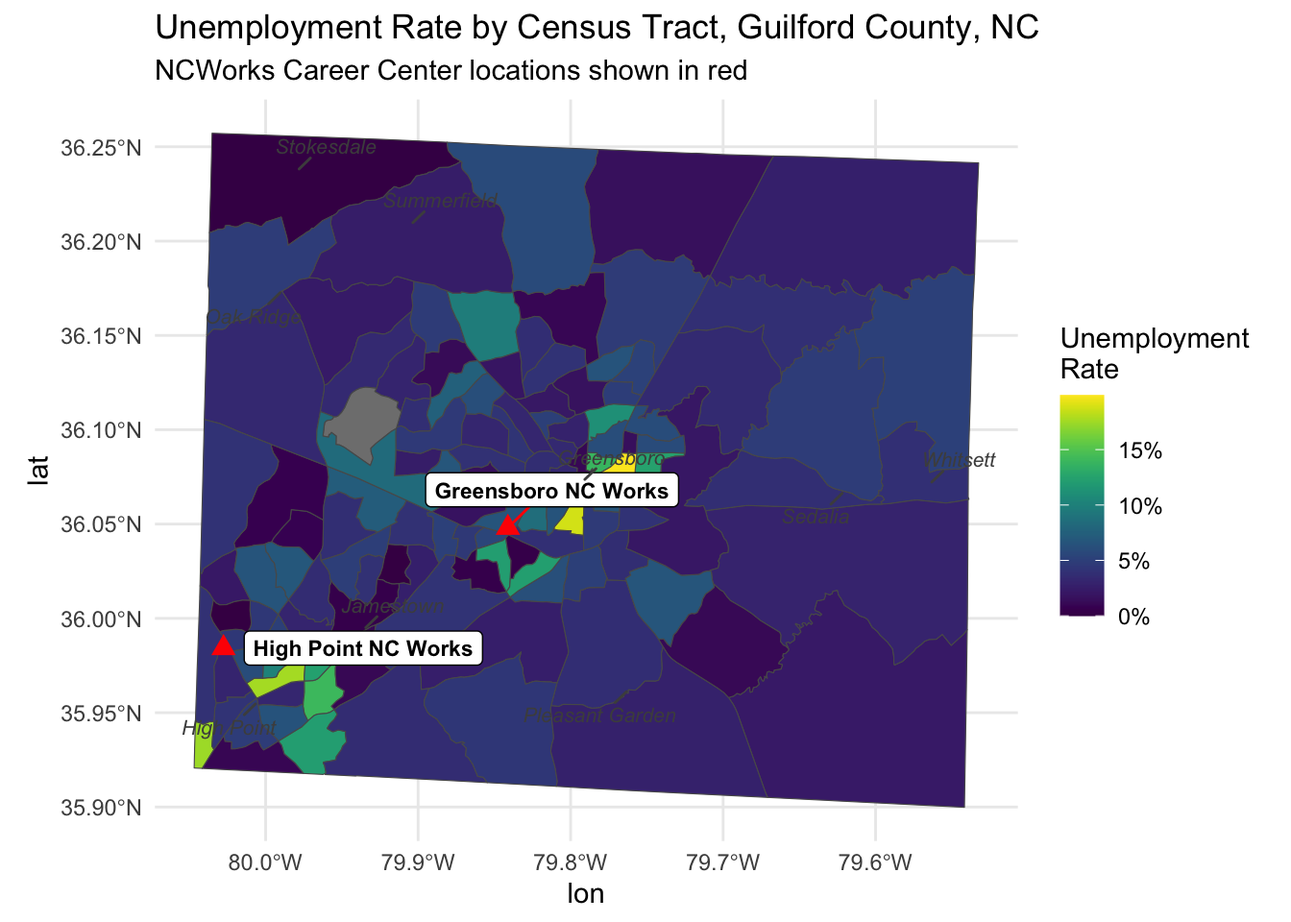
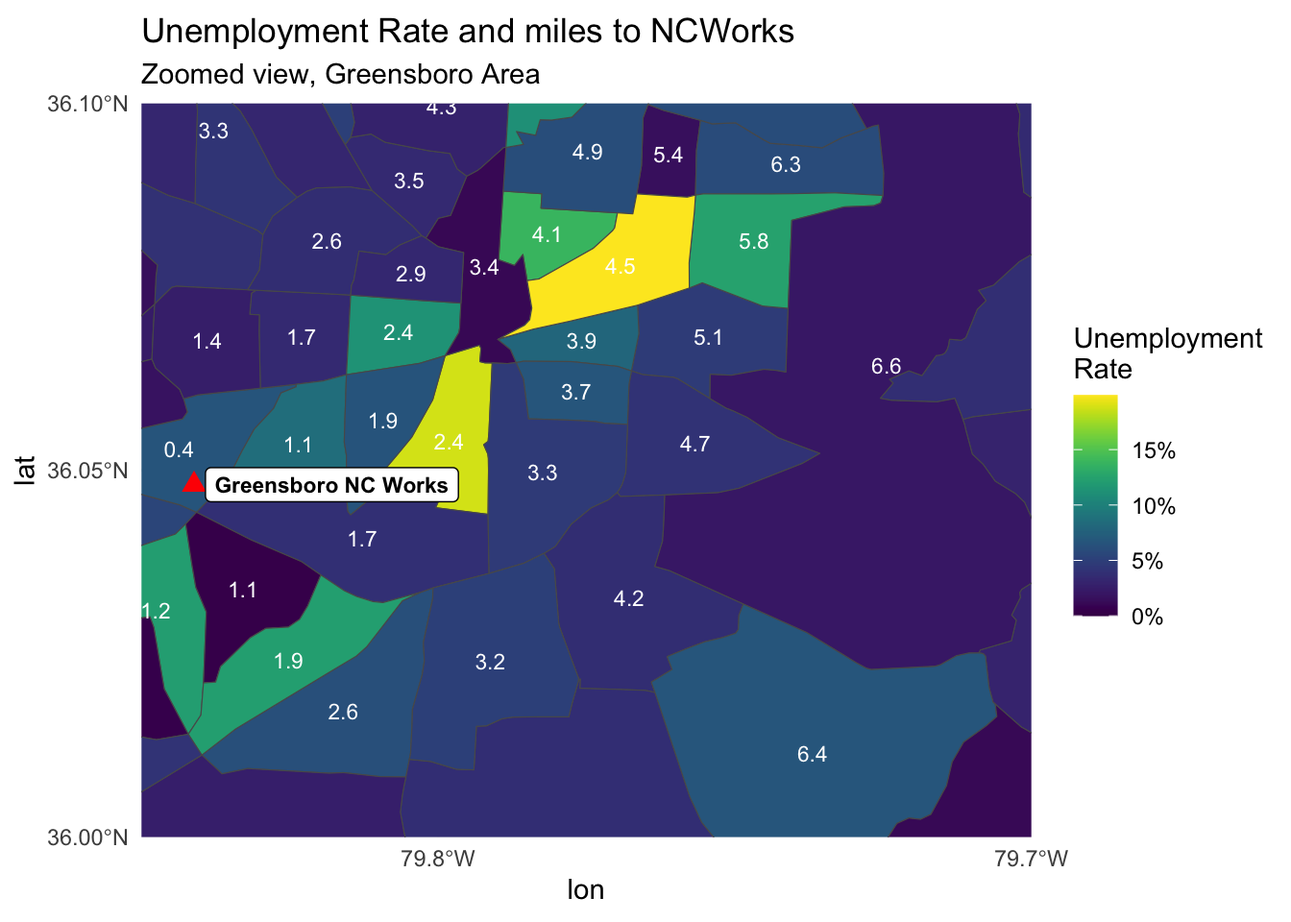
Built site for gh-pages

diff --git a/index.html b/index.html
@@ -150,8 +150,12 @@ pre > code.sourceCode > span > a:first-child::before { text-decoration: underlin
 </header>
 
 
-<section id="quarto" class="level2">
-<h2 class="anchored" data-anchor-id="quarto">Quarto</h2>
+<section id="introduction" class="level2">
+<h2 class="anchored" data-anchor-id="introduction">Introduction</h2>
+<p>Guilford county’s NCWorks Career Centers provide job search assistance, career counseling, and skills training to residents across the county. Both centers are located in the county’s two largest cities, Greensboro and High Point. This raises a natural question:</p>
+<p>Are the workforce centers in a convenient location to communities with the highest job support needs?</p>
+<p>This project takes a first look at these questions. It maps labor market indicators including unemployment, poverty, and vehicle access across Guilford County’s census tracts, alongside the locations of the two career centers. We aim to visually surface where need may be concentrated relative to where services are physically located/</p>
+<p><strong>Note</strong>: Click on the <code>Code</code> to view the underlying R code used in producing this report.</p>
 <div class="cell">
 <details class="code-fold">
 <summary>Code</summary>
@@ -164,68 +168,117 @@ pre > code.sourceCode > span > a:first-child::before { text-decoration: underlin
 <span id="cb1-7"><a href="#cb1-7" aria-hidden="true" tabindex="-1"></a><span class="fu">library</span>(dplyr)</span></code></pre></div><button title="Copy to Clipboard" class="code-copy-button"><i class="bi"></i></button></div>
 </details>
 </div>
+</section>
+<section id="data-and-methodology" class="level2">
+<h2 class="anchored" data-anchor-id="data-and-methodology">Data and Methodology</h2>
+<p><strong>Data sources</strong></p>
+<ul>
+<li>American Community Survey (ACS) 2019 to 2023 5 year estimates, at the census tract level, covering labor force status and unemployment (Table B23025), median household income (Table B19013), poverty status (Table B17001), and vehicle availability by household (Table B08201)</li>
+<li>NCWorks Career Center locations, geocoded from publicly listed addresses in Greensboro and High Point</li>
+</ul>
+<p><strong>Why census tracts</strong></p>
+<p>Census tracts are the standard small area geography for this kind of analysis. They are small enough to reveal neighborhood level variation, but large enough (typically 1,200 to 8,000 residents) to produce reliable estimates, unlike smaller geographies such as block groups. Tract level data of this kind is also standard input for the sort of underserved area analysis that informs public workforce funding decisions.</p>
+<p><strong>Distance calculation</strong></p>
+<p>For each tract, I calculated the straight line distance from the tract’s population centroid to the nearest of the two career centers. Distance calculations were performed in a projected coordinate system (NC State Plane, EPSG:2264) to ensure accurate measurement in feet before converting to miles. Mapping was done in unprojected geographic coordinates (WGS84) for standard latitude and longitude display.</p>
 <div class="cell">
 <details class="code-fold">
 <summary>Code</summary>
 <div class="code-copy-outer-scaffold"><div class="sourceCode cell-code" id="cb2"><pre class="sourceCode r code-with-copy"><code class="sourceCode r"><span id="cb2-1"><a href="#cb2-1" aria-hidden="true" tabindex="-1"></a>guilford_acs <span class="ot">&lt;-</span> <span class="fu">st_read_parquet</span>(<span class="st">"data/guilford_tracts-2026-07-20.parquet"</span>)</span>
 <span id="cb2-2"><a href="#cb2-2" aria-hidden="true" tabindex="-1"></a>centers <span class="ot">&lt;-</span> <span class="fu">st_read_parquet</span>(<span class="st">"data/career-centers-geo-2026-07-20.parquet"</span>)</span>
-<span id="cb2-3"><a href="#cb2-3" aria-hidden="true" tabindex="-1"></a>ref_cities <span class="ot">&lt;-</span> <span class="fu">read_parquet</span>(<span class="st">"data/ref-cities-2026-07-20.parquet"</span>)</span></code></pre></div><button title="Copy to Clipboard" class="code-copy-button"><i class="bi"></i></button></div>
+<span id="cb2-3"><a href="#cb2-3" aria-hidden="true" tabindex="-1"></a>ref_cities <span class="ot">&lt;-</span> <span class="fu">read_parquet</span>(<span class="st">"data/ref-cities-2026-07-20.parquet"</span>)</span>
+<span id="cb2-4"><a href="#cb2-4" aria-hidden="true" tabindex="-1"></a></span>
+<span id="cb2-5"><a href="#cb2-5" aria-hidden="true" tabindex="-1"></a>guilford_acs_proj <span class="ot">&lt;-</span> <span class="fu">st_transform</span>(guilford_acs, <span class="at">crs =</span> <span class="dv">2264</span>)</span>
+<span id="cb2-6"><a href="#cb2-6" aria-hidden="true" tabindex="-1"></a>career_centers_proj <span class="ot">&lt;-</span> <span class="fu">st_transform</span>(centers, <span class="at">crs =</span> <span class="dv">2264</span>)</span>
+<span id="cb2-7"><a href="#cb2-7" aria-hidden="true" tabindex="-1"></a>guilford_centroids_proj <span class="ot">&lt;-</span> <span class="fu">st_centroid</span>(guilford_acs_proj)</span>
+<span id="cb2-8"><a href="#cb2-8" aria-hidden="true" tabindex="-1"></a></span>
+<span id="cb2-9"><a href="#cb2-9" aria-hidden="true" tabindex="-1"></a>dist_matrix <span class="ot">&lt;-</span> <span class="fu">st_distance</span>(guilford_centroids_proj, career_centers_proj)</span>
+<span id="cb2-10"><a href="#cb2-10" aria-hidden="true" tabindex="-1"></a></span>
+<span id="cb2-11"><a href="#cb2-11" aria-hidden="true" tabindex="-1"></a>guilford_acs_proj <span class="ot">&lt;-</span> guilford_acs_proj <span class="sc">|&gt;</span></span>
+<span id="cb2-12"><a href="#cb2-12" aria-hidden="true" tabindex="-1"></a>  <span class="fu">mutate</span>(<span class="at">dist_to_nearest_center_miles =</span> <span class="fu">apply</span>(dist_matrix, <span class="dv">1</span>, min) <span class="sc">/</span> <span class="dv">5280</span>)</span>
+<span id="cb2-13"><a href="#cb2-13" aria-hidden="true" tabindex="-1"></a></span>
+<span id="cb2-14"><a href="#cb2-14" aria-hidden="true" tabindex="-1"></a>guilford_acs <span class="ot">&lt;-</span> guilford_acs <span class="sc">|&gt;</span></span>
+<span id="cb2-15"><a href="#cb2-15" aria-hidden="true" tabindex="-1"></a>  <span class="fu">left_join</span>(</span>
+<span id="cb2-16"><a href="#cb2-16" aria-hidden="true" tabindex="-1"></a>    <span class="fu">st_drop_geometry</span>(guilford_acs_proj) <span class="sc">|&gt;</span> <span class="fu">select</span>(GEOID, dist_to_nearest_center_miles),</span>
+<span id="cb2-17"><a href="#cb2-17" aria-hidden="true" tabindex="-1"></a>    <span class="at">by =</span> <span class="st">"GEOID"</span></span>
+<span id="cb2-18"><a href="#cb2-18" aria-hidden="true" tabindex="-1"></a>  )</span>
+<span id="cb2-19"><a href="#cb2-19" aria-hidden="true" tabindex="-1"></a></span>
+<span id="cb2-20"><a href="#cb2-20" aria-hidden="true" tabindex="-1"></a>career_centers_coords <span class="ot">&lt;-</span> centers <span class="sc">|&gt;</span></span>
+<span id="cb2-21"><a href="#cb2-21" aria-hidden="true" tabindex="-1"></a>  <span class="fu">mutate</span>(<span class="at">lon =</span> <span class="fu">st_coordinates</span>(geometry)[, <span class="dv">1</span>],</span>
+<span id="cb2-22"><a href="#cb2-22" aria-hidden="true" tabindex="-1"></a>         <span class="at">lat =</span> <span class="fu">st_coordinates</span>(geometry)[, <span class="dv">2</span>]) <span class="sc">|&gt;</span></span>
+<span id="cb2-23"><a href="#cb2-23" aria-hidden="true" tabindex="-1"></a>  <span class="fu">st_drop_geometry</span>()</span></code></pre></div><button title="Copy to Clipboard" class="code-copy-button"><i class="bi"></i></button></div>
 </details>
 </div>
 </section>
-<section id="make-computations" class="level2">
-<h2 class="anchored" data-anchor-id="make-computations">Make Computations</h2>
+<section id="nc-works-locations-and-unemployment-levels" class="level1">
+<h1>NC Works Locations and Unemployment Levels</h1>
+<p>The map below shows each census tract in Guilford County, shaded according to the unemployment rate. Note that the NC Service locations are not in the census tracts with the highest unemployment rates.</p>
 <div class="cell">
 <details class="code-fold">
 <summary>Code</summary>
-<div class="code-copy-outer-scaffold"><div class="sourceCode cell-code" id="cb3"><pre class="sourceCode r code-with-copy"><code class="sourceCode r"><span id="cb3-1"><a href="#cb3-1" aria-hidden="true" tabindex="-1"></a>guilford_acs_proj <span class="ot">&lt;-</span> <span class="fu">st_transform</span>(guilford_acs, <span class="at">crs =</span> <span class="dv">2264</span>)</span>
-<span id="cb3-2"><a href="#cb3-2" aria-hidden="true" tabindex="-1"></a>career_centers_proj <span class="ot">&lt;-</span> <span class="fu">st_transform</span>(centers, <span class="at">crs =</span> <span class="dv">2264</span>)</span>
-<span id="cb3-3"><a href="#cb3-3" aria-hidden="true" tabindex="-1"></a>guilford_centroids_proj <span class="ot">&lt;-</span> <span class="fu">st_centroid</span>(guilford_acs_proj)</span>
-<span id="cb3-4"><a href="#cb3-4" aria-hidden="true" tabindex="-1"></a></span>
-<span id="cb3-5"><a href="#cb3-5" aria-hidden="true" tabindex="-1"></a>dist_matrix <span class="ot">&lt;-</span> <span class="fu">st_distance</span>(guilford_centroids_proj, career_centers_proj)</span>
-<span id="cb3-6"><a href="#cb3-6" aria-hidden="true" tabindex="-1"></a></span>
-<span id="cb3-7"><a href="#cb3-7" aria-hidden="true" tabindex="-1"></a>guilford_acs_proj <span class="ot">&lt;-</span> guilford_acs_proj <span class="sc">|&gt;</span></span>
-<span id="cb3-8"><a href="#cb3-8" aria-hidden="true" tabindex="-1"></a>  <span class="fu">mutate</span>(<span class="at">dist_to_nearest_center_miles =</span> <span class="fu">apply</span>(dist_matrix, <span class="dv">1</span>, min) <span class="sc">/</span> <span class="dv">5280</span>)</span>
-<span id="cb3-9"><a href="#cb3-9" aria-hidden="true" tabindex="-1"></a></span>
-<span id="cb3-10"><a href="#cb3-10" aria-hidden="true" tabindex="-1"></a>guilford_acs <span class="ot">&lt;-</span> guilford_acs <span class="sc">|&gt;</span></span>
-<span id="cb3-11"><a href="#cb3-11" aria-hidden="true" tabindex="-1"></a>  <span class="fu">left_join</span>(</span>
-<span id="cb3-12"><a href="#cb3-12" aria-hidden="true" tabindex="-1"></a>    <span class="fu">st_drop_geometry</span>(guilford_acs_proj) <span class="sc">|&gt;</span> <span class="fu">select</span>(GEOID, dist_to_nearest_center_miles),</span>
-<span id="cb3-13"><a href="#cb3-13" aria-hidden="true" tabindex="-1"></a>    <span class="at">by =</span> <span class="st">"GEOID"</span></span>
-<span id="cb3-14"><a href="#cb3-14" aria-hidden="true" tabindex="-1"></a>  )</span></code></pre></div><button title="Copy to Clipboard" class="code-copy-button"><i class="bi"></i></button></div>
+<div class="code-copy-outer-scaffold"><div class="sourceCode cell-code" id="cb3"><pre class="sourceCode r code-with-copy"><code class="sourceCode r"><span id="cb3-1"><a href="#cb3-1" aria-hidden="true" tabindex="-1"></a><span class="fu">ggplot</span>(guilford_acs) <span class="sc">+</span></span>
+<span id="cb3-2"><a href="#cb3-2" aria-hidden="true" tabindex="-1"></a>  <span class="fu">geom_sf</span>(<span class="fu">aes</span>(<span class="at">fill =</span> unemployment_rate)) <span class="sc">+</span></span>
+<span id="cb3-3"><a href="#cb3-3" aria-hidden="true" tabindex="-1"></a>  <span class="fu">scale_fill_viridis</span>(<span class="at">name =</span> <span class="st">"Unemployment</span><span class="sc">\n</span><span class="st">Rate"</span>, <span class="at">labels =</span> scales<span class="sc">::</span>percent) <span class="sc">+</span></span>
+<span id="cb3-4"><a href="#cb3-4" aria-hidden="true" tabindex="-1"></a>  <span class="fu">geom_point</span>(<span class="at">data =</span> career_centers_coords, <span class="fu">aes</span>(<span class="at">x =</span> lon, <span class="at">y =</span> lat),</span>
+<span id="cb3-5"><a href="#cb3-5" aria-hidden="true" tabindex="-1"></a>             <span class="at">color =</span> <span class="st">"red"</span>, <span class="at">size =</span> <span class="dv">3</span>, <span class="at">shape =</span> <span class="dv">17</span>) <span class="sc">+</span></span>
+<span id="cb3-6"><a href="#cb3-6" aria-hidden="true" tabindex="-1"></a>  <span class="fu">geom_label_repel</span>(<span class="at">data =</span> career_centers_coords,</span>
+<span id="cb3-7"><a href="#cb3-7" aria-hidden="true" tabindex="-1"></a>                    <span class="fu">aes</span>(<span class="at">x =</span> lon, <span class="at">y =</span> lat, <span class="at">label =</span> name),</span>
+<span id="cb3-8"><a href="#cb3-8" aria-hidden="true" tabindex="-1"></a>                    <span class="at">size =</span> <span class="dv">3</span>, <span class="at">fontface =</span> <span class="st">"bold"</span>,</span>
+<span id="cb3-9"><a href="#cb3-9" aria-hidden="true" tabindex="-1"></a>                    <span class="at">box.padding =</span> <span class="fl">0.5</span>, <span class="at">segment.color =</span> <span class="st">"red"</span>) <span class="sc">+</span></span>
+<span id="cb3-10"><a href="#cb3-10" aria-hidden="true" tabindex="-1"></a>  <span class="fu">geom_text_repel</span>(<span class="at">data =</span> ref_cities,</span>
+<span id="cb3-11"><a href="#cb3-11" aria-hidden="true" tabindex="-1"></a>                   <span class="fu">aes</span>(<span class="at">x =</span> long, <span class="at">y =</span> lat, <span class="at">label =</span> name),</span>
+<span id="cb3-12"><a href="#cb3-12" aria-hidden="true" tabindex="-1"></a>                   <span class="at">size =</span> <span class="fl">2.8</span>, <span class="at">color =</span> <span class="st">"gray90"</span>, <span class="at">fontface =</span> <span class="st">"italic"</span>,</span>
+<span id="cb3-13"><a href="#cb3-13" aria-hidden="true" tabindex="-1"></a>                   <span class="at">box.padding =</span> <span class="fl">0.4</span>, <span class="at">max.overlaps =</span> <span class="dv">15</span>,</span>
+<span id="cb3-14"><a href="#cb3-14" aria-hidden="true" tabindex="-1"></a>                   <span class="at">min.segment.length =</span> <span class="dv">0</span>, <span class="at">seed =</span> <span class="dv">42</span>) <span class="sc">+</span></span>
+<span id="cb3-15"><a href="#cb3-15" aria-hidden="true" tabindex="-1"></a>  <span class="fu">theme_minimal</span>() <span class="sc">+</span></span>
+<span id="cb3-16"><a href="#cb3-16" aria-hidden="true" tabindex="-1"></a>  <span class="fu">labs</span>(<span class="at">title =</span> <span class="st">"Unemployment Rate by Census Tract, Guilford County, NC"</span>,</span>
+<span id="cb3-17"><a href="#cb3-17" aria-hidden="true" tabindex="-1"></a>       <span class="at">subtitle =</span> <span class="st">"NCWorks Career Center locations shown in red"</span>)</span></code></pre></div><button title="Copy to Clipboard" class="code-copy-button"><i class="bi"></i></button></div>
 </details>
+<div class="cell-output-display">
+<div>
+<figure class="figure">
+<p><img src="index_files/figure-html/unnamed-chunk-1-1.png" class="img-fluid figure-img" width="672"></p>
+</figure>
 </div>
+</div>
+</div>
+<p>This second spatial graph shows the average number of miles to the NCWorks location. The two Greensboro-area tracts with the highest unemployment have average distances of 2.4 and 4.5 miles to the NC Works location. This can pose a burden to residents without vehicle access. In the census tract where Greensboro NC Works resides, the average distance is less than half of a mile, but there is a lower need for employment services in this tract.</p>
 <div class="cell">
 <details class="code-fold">
 <summary>Code</summary>
-<div class="code-copy-outer-scaffold"><div class="sourceCode cell-code" id="cb4"><pre class="sourceCode r code-with-copy"><code class="sourceCode r"><span id="cb4-1"><a href="#cb4-1" aria-hidden="true" tabindex="-1"></a>career_centers_coords <span class="ot">&lt;-</span> centers <span class="sc">|&gt;</span></span>
-<span id="cb4-2"><a href="#cb4-2" aria-hidden="true" tabindex="-1"></a>  <span class="fu">mutate</span>(<span class="at">lon =</span> <span class="fu">st_coordinates</span>(geometry)[, <span class="dv">1</span>],</span>
-<span id="cb4-3"><a href="#cb4-3" aria-hidden="true" tabindex="-1"></a>         <span class="at">lat =</span> <span class="fu">st_coordinates</span>(geometry)[, <span class="dv">2</span>]) <span class="sc">|&gt;</span></span>
-<span id="cb4-4"><a href="#cb4-4" aria-hidden="true" tabindex="-1"></a>  <span class="fu">st_drop_geometry</span>()</span></code></pre></div><button title="Copy to Clipboard" class="code-copy-button"><i class="bi"></i></button></div>
-</details>
-</div>
-</section>
-<section id="make-figure" class="level2">
-<h2 class="anchored" data-anchor-id="make-figure">Make Figure</h2>
-<div class="cell">
-<details class="code-fold">
-<summary>Code</summary>
-<div class="code-copy-outer-scaffold"><div class="sourceCode cell-code" id="cb5"><pre class="sourceCode r code-with-copy"><code class="sourceCode r"><span id="cb5-1"><a href="#cb5-1" aria-hidden="true" tabindex="-1"></a><span class="fu">ggplot</span>(guilford_acs) <span class="sc">+</span></span>
-<span id="cb5-2"><a href="#cb5-2" aria-hidden="true" tabindex="-1"></a>  <span class="fu">geom_sf</span>(<span class="fu">aes</span>(<span class="at">fill =</span> unemployment_rate)) <span class="sc">+</span></span>
-<span id="cb5-3"><a href="#cb5-3" aria-hidden="true" tabindex="-1"></a>  <span class="fu">scale_fill_viridis</span>(<span class="at">name =</span> <span class="st">"Unemployment</span><span class="sc">\n</span><span class="st">Rate"</span>, <span class="at">labels =</span> scales<span class="sc">::</span>percent) <span class="sc">+</span></span>
-<span id="cb5-4"><a href="#cb5-4" aria-hidden="true" tabindex="-1"></a>  <span class="fu">geom_point</span>(<span class="at">data =</span> career_centers_coords, <span class="fu">aes</span>(<span class="at">x =</span> lon, <span class="at">y =</span> lat),</span>
-<span id="cb5-5"><a href="#cb5-5" aria-hidden="true" tabindex="-1"></a>             <span class="at">color =</span> <span class="st">"red"</span>, <span class="at">size =</span> <span class="dv">3</span>, <span class="at">shape =</span> <span class="dv">17</span>) <span class="sc">+</span></span>
-<span id="cb5-6"><a href="#cb5-6" aria-hidden="true" tabindex="-1"></a>  <span class="fu">geom_label_repel</span>(<span class="at">data =</span> career_centers_coords,</span>
-<span id="cb5-7"><a href="#cb5-7" aria-hidden="true" tabindex="-1"></a>                    <span class="fu">aes</span>(<span class="at">x =</span> lon, <span class="at">y =</span> lat, <span class="at">label =</span> name),</span>
-<span id="cb5-8"><a href="#cb5-8" aria-hidden="true" tabindex="-1"></a>                    <span class="at">size =</span> <span class="dv">3</span>, <span class="at">fontface =</span> <span class="st">"bold"</span>,</span>
-<span id="cb5-9"><a href="#cb5-9" aria-hidden="true" tabindex="-1"></a>                    <span class="at">box.padding =</span> <span class="fl">0.5</span>, <span class="at">segment.color =</span> <span class="st">"red"</span>) <span class="sc">+</span></span>
-<span id="cb5-10"><a href="#cb5-10" aria-hidden="true" tabindex="-1"></a>  <span class="fu">geom_text_repel</span>(<span class="at">data =</span> ref_cities,</span>
-<span id="cb5-11"><a href="#cb5-11" aria-hidden="true" tabindex="-1"></a>                   <span class="fu">aes</span>(<span class="at">x =</span> long, <span class="at">y =</span> lat, <span class="at">label =</span> name),</span>
-<span id="cb5-12"><a href="#cb5-12" aria-hidden="true" tabindex="-1"></a>                   <span class="at">size =</span> <span class="fl">2.8</span>, <span class="at">color =</span> <span class="st">"gray30"</span>, <span class="at">fontface =</span> <span class="st">"italic"</span>,</span>
-<span id="cb5-13"><a href="#cb5-13" aria-hidden="true" tabindex="-1"></a>                   <span class="at">box.padding =</span> <span class="fl">0.4</span>, <span class="at">max.overlaps =</span> <span class="dv">15</span>,</span>
-<span id="cb5-14"><a href="#cb5-14" aria-hidden="true" tabindex="-1"></a>                   <span class="at">min.segment.length =</span> <span class="dv">0</span>, <span class="at">seed =</span> <span class="dv">42</span>) <span class="sc">+</span></span>
-<span id="cb5-15"><a href="#cb5-15" aria-hidden="true" tabindex="-1"></a>  <span class="fu">theme_minimal</span>() <span class="sc">+</span></span>
-<span id="cb5-16"><a href="#cb5-16" aria-hidden="true" tabindex="-1"></a>  <span class="fu">labs</span>(<span class="at">title =</span> <span class="st">"Unemployment Rate by Census Tract, Guilford County, NC"</span>,</span>
-<span id="cb5-17"><a href="#cb5-17" aria-hidden="true" tabindex="-1"></a>       <span class="at">subtitle =</span> <span class="st">"NCWorks Career Center locations shown in red"</span>)</span></code></pre></div><button title="Copy to Clipboard" class="code-copy-button"><i class="bi"></i></button></div>
+<div class="code-copy-outer-scaffold"><div class="sourceCode cell-code" id="cb4"><pre class="sourceCode r code-with-copy"><code class="sourceCode r"><span id="cb4-1"><a href="#cb4-1" aria-hidden="true" tabindex="-1"></a>guilford_centroids_coords <span class="ot">&lt;-</span> guilford_acs <span class="sc">|&gt;</span></span>
+<span id="cb4-2"><a href="#cb4-2" aria-hidden="true" tabindex="-1"></a>  <span class="fu">st_centroid</span>() <span class="sc">|&gt;</span></span>
+<span id="cb4-3"><a href="#cb4-3" aria-hidden="true" tabindex="-1"></a>  <span class="fu">mutate</span>(</span>
+<span id="cb4-4"><a href="#cb4-4" aria-hidden="true" tabindex="-1"></a>    <span class="at">cent_lon =</span> <span class="fu">st_coordinates</span>(geometry)[, <span class="dv">1</span>],</span>
+<span id="cb4-5"><a href="#cb4-5" aria-hidden="true" tabindex="-1"></a>    <span class="at">cent_lat =</span> <span class="fu">st_coordinates</span>(geometry)[, <span class="dv">2</span>]</span>
+<span id="cb4-6"><a href="#cb4-6" aria-hidden="true" tabindex="-1"></a>  ) <span class="sc">|&gt;</span></span>
+<span id="cb4-7"><a href="#cb4-7" aria-hidden="true" tabindex="-1"></a>  <span class="fu">st_drop_geometry</span>()</span>
+<span id="cb4-8"><a href="#cb4-8" aria-hidden="true" tabindex="-1"></a></span>
+<span id="cb4-9"><a href="#cb4-9" aria-hidden="true" tabindex="-1"></a><span class="fu">ggplot</span>(guilford_acs) <span class="sc">+</span></span>
+<span id="cb4-10"><a href="#cb4-10" aria-hidden="true" tabindex="-1"></a>  <span class="fu">geom_sf</span>(<span class="fu">aes</span>(<span class="at">fill =</span> unemployment_rate)) <span class="sc">+</span></span>
+<span id="cb4-11"><a href="#cb4-11" aria-hidden="true" tabindex="-1"></a>  <span class="fu">scale_fill_viridis</span>(<span class="at">name =</span> <span class="st">"Unemployment</span><span class="sc">\n</span><span class="st">Rate"</span>, <span class="at">labels =</span> scales<span class="sc">::</span>percent) <span class="sc">+</span></span>
+<span id="cb4-12"><a href="#cb4-12" aria-hidden="true" tabindex="-1"></a>  <span class="fu">geom_point</span>(</span>
+<span id="cb4-13"><a href="#cb4-13" aria-hidden="true" tabindex="-1"></a>    <span class="at">data =</span> career_centers_coords <span class="sc">%&gt;%</span> <span class="fu">filter</span>(name <span class="sc">==</span> <span class="st">"Greensboro NC Works"</span>), </span>
+<span id="cb4-14"><a href="#cb4-14" aria-hidden="true" tabindex="-1"></a>    <span class="fu">aes</span>(<span class="at">x =</span> lon, <span class="at">y =</span> lat),</span>
+<span id="cb4-15"><a href="#cb4-15" aria-hidden="true" tabindex="-1"></a>    <span class="at">color =</span> <span class="st">"red"</span>, </span>
+<span id="cb4-16"><a href="#cb4-16" aria-hidden="true" tabindex="-1"></a>    <span class="at">size =</span> <span class="dv">3</span>, </span>
+<span id="cb4-17"><a href="#cb4-17" aria-hidden="true" tabindex="-1"></a>    <span class="at">shape =</span> <span class="dv">17</span></span>
+<span id="cb4-18"><a href="#cb4-18" aria-hidden="true" tabindex="-1"></a>    ) <span class="sc">+</span></span>
+<span id="cb4-19"><a href="#cb4-19" aria-hidden="true" tabindex="-1"></a>  <span class="fu">geom_label_repel</span>(</span>
+<span id="cb4-20"><a href="#cb4-20" aria-hidden="true" tabindex="-1"></a>    <span class="at">data =</span> career_centers_coords <span class="sc">%&gt;%</span> <span class="fu">filter</span>(name <span class="sc">==</span> <span class="st">"Greensboro NC Works"</span>),</span>
+<span id="cb4-21"><a href="#cb4-21" aria-hidden="true" tabindex="-1"></a>    <span class="fu">aes</span>(<span class="at">x =</span> lon, <span class="at">y =</span> lat, <span class="at">label =</span> name),</span>
+<span id="cb4-22"><a href="#cb4-22" aria-hidden="true" tabindex="-1"></a>    <span class="at">size =</span> <span class="dv">3</span>, <span class="at">fontface =</span> <span class="st">"bold"</span>,</span>
+<span id="cb4-23"><a href="#cb4-23" aria-hidden="true" tabindex="-1"></a>    <span class="at">segment.color =</span> <span class="st">"red"</span></span>
+<span id="cb4-24"><a href="#cb4-24" aria-hidden="true" tabindex="-1"></a>    ) <span class="sc">+</span></span>
+<span id="cb4-25"><a href="#cb4-25" aria-hidden="true" tabindex="-1"></a>  <span class="fu">coord_sf</span>(<span class="at">xlim =</span> <span class="fu">c</span>(<span class="sc">-</span><span class="fl">79.85</span>, <span class="sc">-</span><span class="fl">79.70</span>), <span class="at">ylim =</span> <span class="fu">c</span>(<span class="fl">36.00</span>, <span class="fl">36.10</span>), <span class="at">expand =</span> <span class="cn">FALSE</span>) <span class="sc">+</span></span>
+<span id="cb4-26"><a href="#cb4-26" aria-hidden="true" tabindex="-1"></a>  <span class="fu">theme_minimal</span>() <span class="sc">+</span></span>
+<span id="cb4-27"><a href="#cb4-27" aria-hidden="true" tabindex="-1"></a>  <span class="fu">labs</span>(<span class="at">title =</span> <span class="st">"Unemployment Rate and miles to NCWorks"</span>,</span>
+<span id="cb4-28"><a href="#cb4-28" aria-hidden="true" tabindex="-1"></a>       <span class="at">subtitle =</span> <span class="st">"Zoomed view, Greensboro Area"</span>) <span class="sc">+</span></span>
+<span id="cb4-29"><a href="#cb4-29" aria-hidden="true" tabindex="-1"></a>  <span class="fu">scale_x_continuous</span>(<span class="at">breaks =</span> scales<span class="sc">::</span><span class="fu">pretty_breaks</span>(<span class="dv">2</span>)) <span class="sc">+</span></span>
+<span id="cb4-30"><a href="#cb4-30" aria-hidden="true" tabindex="-1"></a>  <span class="fu">scale_y_continuous</span>(<span class="at">breaks =</span> scales<span class="sc">::</span><span class="fu">pretty_breaks</span>(<span class="dv">2</span>)) <span class="sc">+</span></span>
+<span id="cb4-31"><a href="#cb4-31" aria-hidden="true" tabindex="-1"></a>  <span class="fu">geom_text</span>(<span class="at">data =</span> guilford_centroids_coords,</span>
+<span id="cb4-32"><a href="#cb4-32" aria-hidden="true" tabindex="-1"></a>            <span class="fu">aes</span>(<span class="at">x =</span> cent_lon, <span class="at">y =</span> cent_lat, </span>
+<span id="cb4-33"><a href="#cb4-33" aria-hidden="true" tabindex="-1"></a>                <span class="at">label =</span> <span class="fu">round</span>(dist_to_nearest_center_miles, <span class="dv">1</span>)),</span>
+<span id="cb4-34"><a href="#cb4-34" aria-hidden="true" tabindex="-1"></a>            <span class="at">size =</span> <span class="dv">3</span>, <span class="at">color =</span> <span class="st">"white"</span>)</span></code></pre></div><button title="Copy to Clipboard" class="code-copy-button"><i class="bi"></i></button></div>
 </details>
 <div class="cell-output-display">
 <div>
@@ -313,7 +366,7 @@ pre > code.sourceCode > span > a:first-child::before { text-decoration: underlin
     }
       var localhostRegex = new RegExp(/^(?:http|https):\/\/localhost\:?[0-9]*\//);
       var mailtoRegex = new RegExp(/^mailto:/);
-        var filterRegex = new RegExp('/' + window.location.host + '/');
+        var filterRegex = new RegExp("https:\/\/davechilders\.github\.io\/guilford-county-workforce-access\/");
       var isInternal = (href) => {
           return filterRegex.test(href) || localhostRegex.test(href) || mailtoRegex.test(href);
       }
